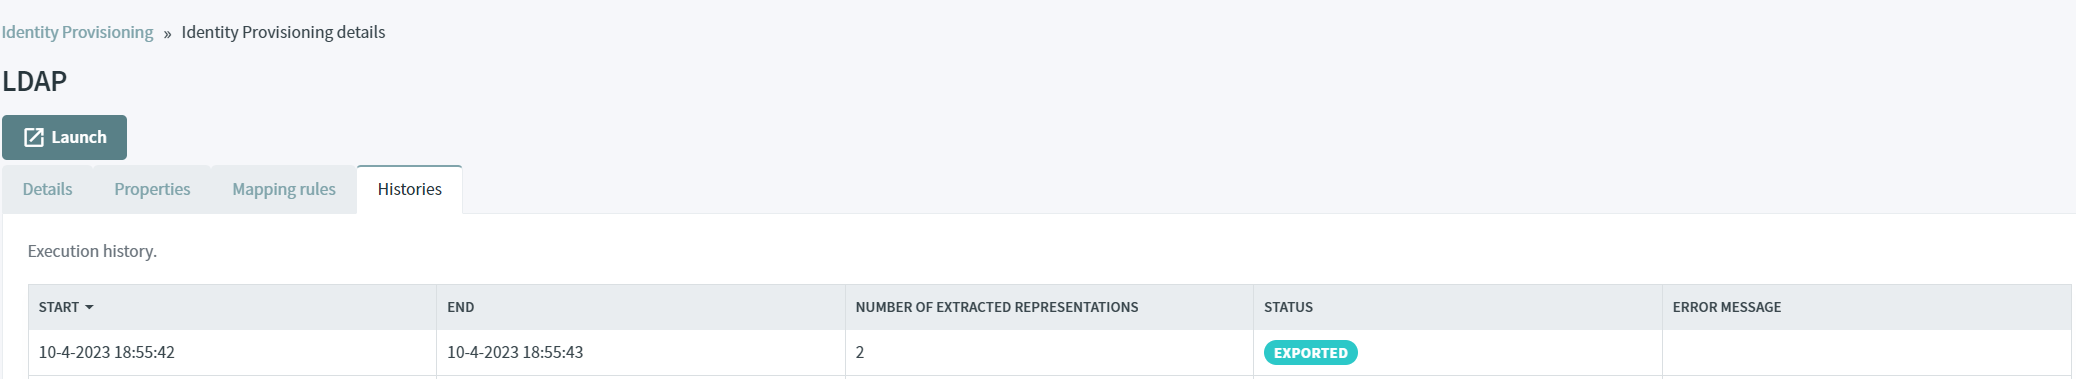
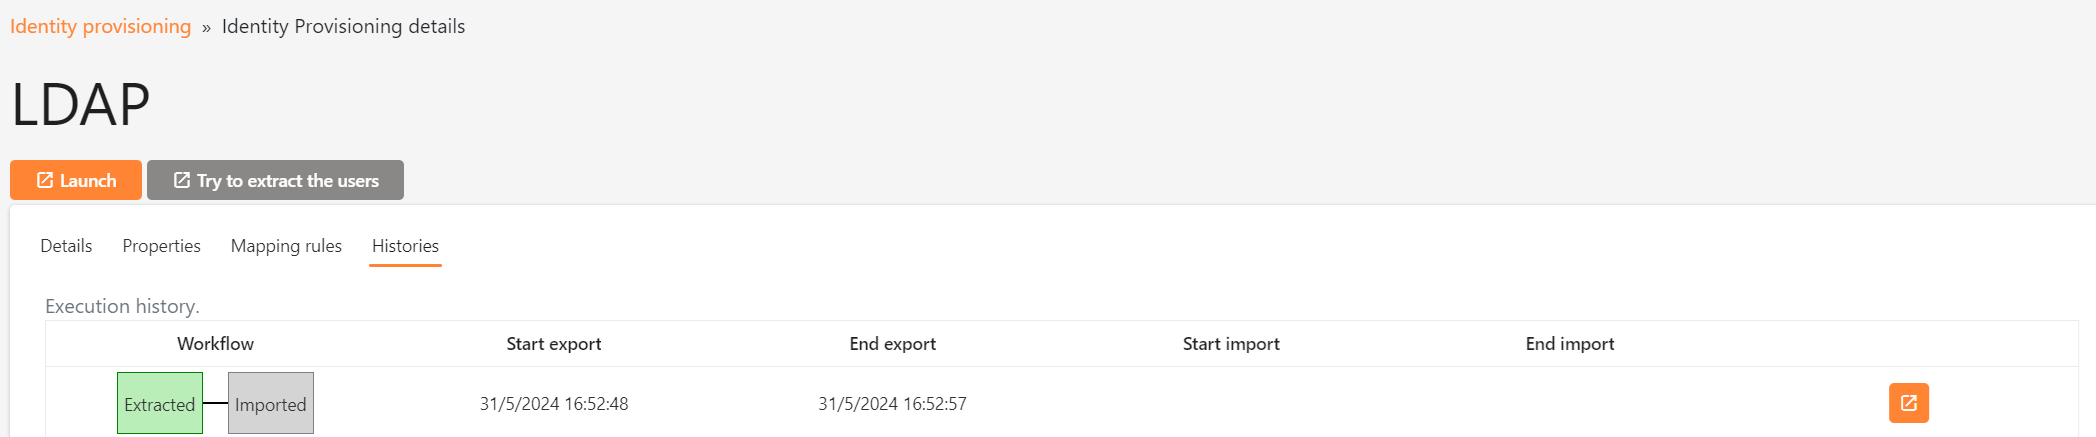
Ticket #743 : Update LDAP documentation

diff --git a/src/IdServer/SimpleIdServer.IdServer.Provisioning.LDAP/Services/LDAPProvisioningService.cs b/src/IdServer/SimpleIdServer.IdServer.Provisioning.LDAP/Services/LDAPProvisioningService.cs
@@ -23,7 +23,10 @@ public class LDAPProvisioningService : BaseProvisioningService<LDAPRepresentatio
 
     public override Task<ExtractedResult> ExtractTestData(IdentityProvisioningDefinition definition, CancellationToken cancellationToken)
     {
-        return Extract(new ExtractionPage(), definition, cancellationToken);
+        return Extract(new ExtractionPage
+        {
+            Page = 1
+        }, definition, cancellationToken);
     }
 
     public override Task<ExtractedResult> Extract(ExtractionPage currentPage, IdentityProvisioningDefinition definition, CancellationToken cancellationToken)

diff --git a/website/docs/tutorial/ldap.md b/website/docs/tutorial/ldap.md
@@ -82,15 +82,23 @@ Browse the [administration UI](http://localhost:5002), navigate to the `Identity
 
 In the `Properties` tab, you can update the attributes of the extraction job
 
-| Field                       | Description                                                                                         |
-| --------------------------- | --------------------------------------------------------------------------------------------------- |
-| Bind DN                     | DN of the LDAP admin, which will be used by IdServer to access LDAP Server                          |
-| Bind Credentials            | Password of LDAP admin                                                                              |
-| Users DN                    | Full DN of LDAP tree where users are                                                                |
-| User object classes         | All values of LDAP objectClass attribute for users in LDAP, divided by commas                       |
-| UUID LDAP Attribute         | Name of the LDAP attribute, which is used as a unique object identifier (UUID) for objects in LDAP. |
-| Modification Date Attribute | Name of the LDAP Attribute, which is used as the modification date for objects in LDAP              |
-| Batch Size                  | Number of records                                                                                   |
+| Field                       | Description                                                                                         | Default value |
+| --------------------------- | --------------------------------------------------------------------------------------------------- | ------------- |
+| Server                      | -                                                                                                   | localhost     |
+| Port                        | -                                                                                                   | 389           |
+| Bind DN                     | DN of the LDAP admin, which will be used by IdServer to access LDAP Server                          | cn=admin,dc=xl,dc=com |
+| Bind Credentials            | Password of LDAP admin                                                                              | password              |
+| Users DN                    | Full DN of LDAP tree where users are                                                                | ou=people,dc=xl,dc=com |
+| User object classes         | All values of LDAP objectClass attribute for users in LDAP, divided by commas                       | organizationalPerson,person |
+| Groups DN                   | Full DN of LDAP tree where groups are                                                               | ou=groups,dc=xl,dc=com |
+| Group object classes        | All values of LDAP objectClass attribute for groups in LDAP, divided by commas                      | posixGroup |
+| Membership Group LDAP Attribute | It is the name of the LDAP Attribute on the group, which is used for membership mappings, for example memberUid | memberUid |
+| Membership User LDAP Attribute | It is the name of the LDAP Attribute on the user, which is used for membership mappings, for example uidNumber | uidNumber |
+| User Groups Retrieve Strategy | Membership User LDAP Attribute | LOAD_BY_MEMBER_ATTRIBUTE |
+| User Identifier LDAP Attribute | Name of the LDAP attribute, which is used as a unique object identifier for objects in LDAP, objectSID for Active Directory or uidNumber of Open Ldap | uidNumber |
+| Group Identifier LDAP Attribute | Name of the LDAP attribute, which is used as a unique object identifier for objects in LDAP, objectSID for Active Directory or gidNumber of Open Ldap | gidNumber |
+| Modification Date Attribute | Name of the LDAP Attribute, which is used as the modification date for objects in LDAP              | modificationDate |
+| Batch Size                  | Number of records                                                                                   | 1 |
 
 :::warning
 
@@ -108,7 +116,6 @@ The `Mapping Rules` tab contains the rules used by IdServer to map properties fr
 ![Mapping rules](./images/ldap-4.png)
 
 Before initiating the extraction, ensure that both the Identity Server and the Administration UI are running/launched.
-
 
 Click on the `Histories` tab and then click on the `Launch` button.
 
